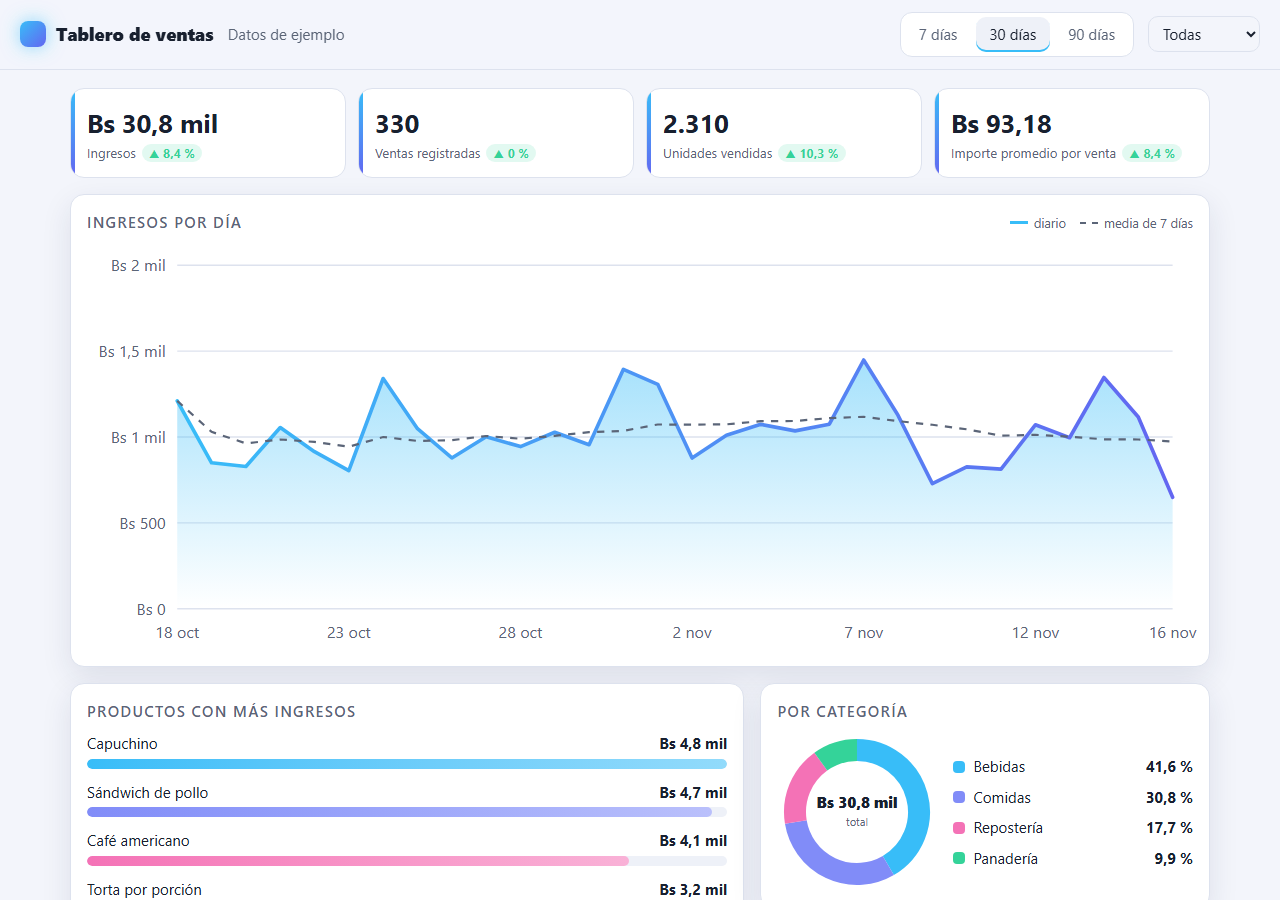
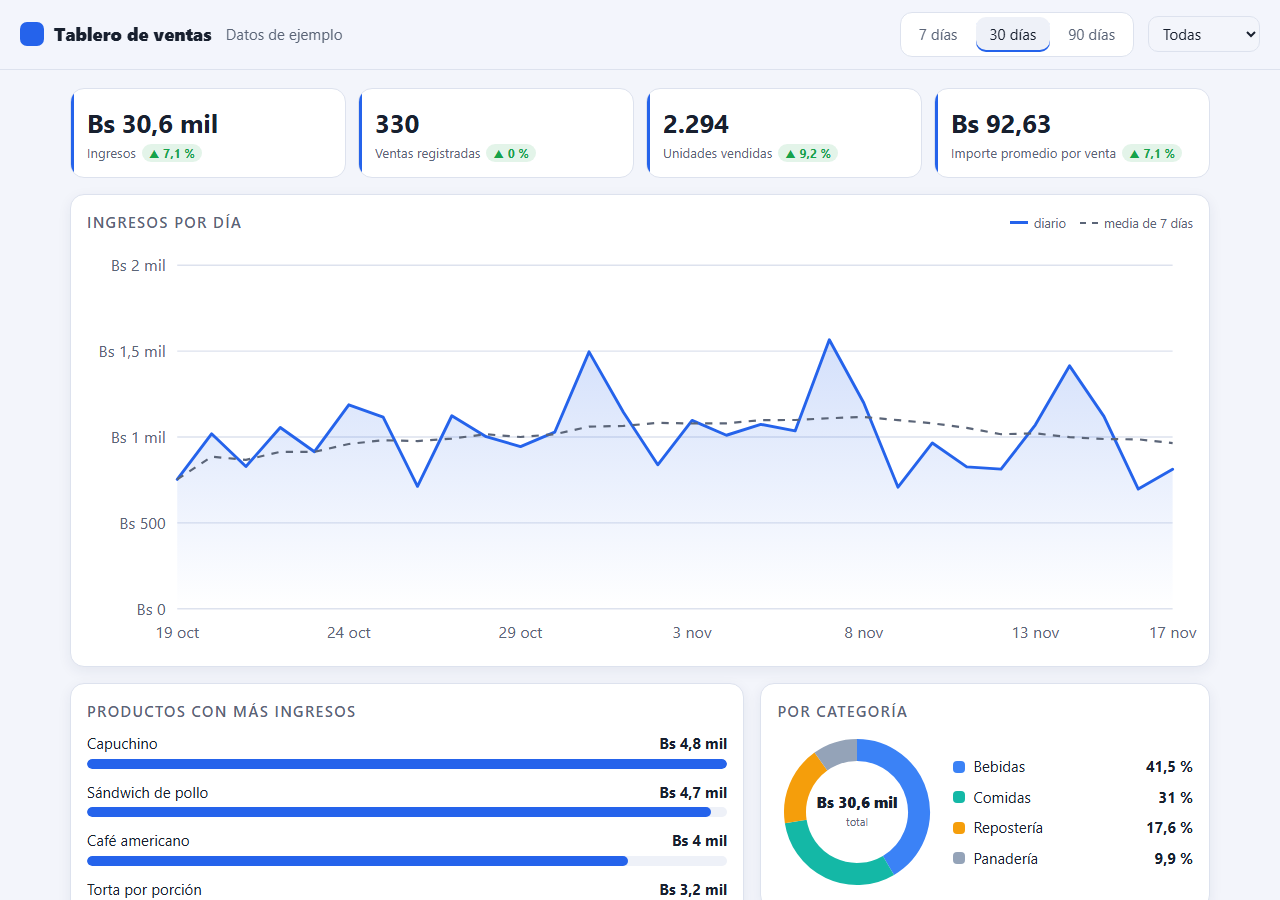
Estilo sobrio: un solo color de acento, sin degradados ni brillos

diff --git a/base.css b/base.css
@@ -6,19 +6,19 @@
   --texto: #e8ecf6;
   --suave: #93a0b8;
   --borde: #26314b;
-  --acento: #38bdf8;
-  --acento-2: #6366f1;
+  --acento: #60a5fa;
+  --acento-2: var(--acento); /* un solo color de acento: sin degradados */
   --sobre-acento: #04101c;
   --peligro: #f87171;
   --aviso: #fbbf24;
   --radio: 14px;
-  --sombra: 0 10px 30px rgba(0, 0, 0, .35);
+  --sombra: 0 4px 14px rgba(0, 0, 0, .25);
   color-scheme: dark;
 }
 @media (prefers-color-scheme: light) {
   :root:not([data-tema='oscuro']) {
     --fondo: #f3f5fb; --panel: #ffffff; --panel-2: #eef1f8; --texto: #18202f; --suave: #5b6578; --borde: #dde2ee;
-    --sombra: 0 10px 30px rgba(30, 40, 80, .10); --sobre-acento: #ffffff; color-scheme: light;
+    --sombra: 0 4px 14px rgba(30, 40, 80, .07); --sobre-acento: #ffffff; --acento: #2563eb; color-scheme: light;
   }
 }
 * { box-sizing: border-box; }
@@ -30,7 +30,8 @@ button { cursor: pointer; border: 1px solid var(--borde); background: var(--pane
 button:hover:not(:disabled) { border-color: var(--acento); transform: translateY(-1px); }
 button:active:not(:disabled) { transform: translateY(1px) scale(.98); }
 button:disabled { opacity: .45; cursor: not-allowed; }
-button.principal { background: linear-gradient(135deg, var(--acento), var(--acento-2)); color: var(--sobre-acento); border-color: transparent; font-weight: 700; box-shadow: 0 6px 18px color-mix(in srgb, var(--acento) 35%, transparent); }
+button.principal { background: var(--acento); color: var(--sobre-acento); border-color: transparent; font-weight: 700; }
+button.principal:hover:not(:disabled) { filter: brightness(1.07); }
 button.fantasma { background: transparent; }
 button.chico { padding: 4px 10px; font-size: .85rem; }
 input, select, textarea { background: var(--fondo); border: 1px solid var(--borde); border-radius: 10px; padding: 8px 10px; min-width: 0; transition: border-color .2s, box-shadow .2s; }
@@ -39,7 +40,7 @@ label { display: flex; flex-direction: column; gap: 4px; font-size: .82rem; colo
 
 .barra-superior { position: sticky; top: 0; z-index: 5; display: flex; align-items: center; gap: 14px; padding: 12px 20px; background: color-mix(in srgb, var(--fondo) 82%, transparent); backdrop-filter: blur(10px); border-bottom: 1px solid var(--borde); }
 .marca { display: flex; align-items: center; gap: 10px; font-weight: 800; font-size: 1.1rem; letter-spacing: .2px; }
-.marca i { width: 26px; height: 26px; border-radius: 8px; background: linear-gradient(135deg, var(--acento), var(--acento-2)); display: inline-block; box-shadow: 0 0 18px color-mix(in srgb, var(--acento) 55%, transparent); }
+.marca i { width: 24px; height: 24px; border-radius: 7px; background: var(--acento); display: inline-block; }
 .espacio { flex: 1; }
 .pestanas { display: flex; gap: 4px; background: var(--panel); border: 1px solid var(--borde); border-radius: 12px; padding: 4px; }
 .pestanas button { border: 0; background: transparent; color: var(--suave); padding: 6px 14px; }
@@ -59,7 +60,7 @@ td.num, th.num { text-align: right; font-variant-numeric: tabular-nums; }
 
 .kpis { display: grid; grid-template-columns: repeat(auto-fit, minmax(170px, 1fr)); gap: 12px; }
 .kpi { background: var(--panel); border: 1px solid var(--borde); border-radius: var(--radio); padding: 14px 16px; position: relative; overflow: hidden; }
-.kpi::before { content: ''; position: absolute; inset: 0 auto 0 0; width: 4px; background: linear-gradient(var(--acento), var(--acento-2)); }
+.kpi::before { content: ''; position: absolute; inset: 0 auto 0 0; width: 3px; background: var(--acento); }
 .kpi b { display: block; font-size: 1.6rem; font-variant-numeric: tabular-nums; }
 .kpi span { color: var(--suave); font-size: .82rem; }
 
@@ -70,8 +71,8 @@ td.num, th.num { text-align: right; font-variant-numeric: tabular-nums; }
 .aviso-flotante.error { border-left-color: var(--peligro); }
 
 @keyframes aparecer { from { opacity: 0; } to { opacity: 1; } }
-@keyframes subir { from { opacity: 0; transform: translateY(14px); } to { opacity: 1; transform: none; } }
-@keyframes pulso { 0% { transform: scale(1); } 40% { transform: scale(1.06); } 100% { transform: scale(1); } }
+@keyframes subir { from { opacity: 0; transform: translateY(8px); } to { opacity: 1; transform: none; } }
+@keyframes pulso { 0% { transform: scale(1); } 40% { transform: scale(1.03); } 100% { transform: scale(1); } }
 .entra { animation: subir .35s cubic-bezier(.2, .8, .2, 1) both; }
 .pulso { animation: pulso .3s ease; }
 @media (prefers-reduced-motion: reduce) { *, *::before, *::after { animation: none !important; transition: none !important; scroll-behavior: auto !important; } }

diff --git a/estilos.css b/estilos.css
@@ -1,16 +1,16 @@
 main { max-width: 1180px; margin: 0 auto; padding: 18px 20px 40px; display: flex; flex-direction: column; gap: 16px; }
 .dos { display: grid; grid-template-columns: 3fr 2fr; gap: 16px; align-items: start; }
 .kpi em { font-style: normal; font-size: .78rem; font-weight: 700; margin-left: 6px; padding: 1px 7px; border-radius: 999px; }
-.kpi em.sube { color: #34d399; background: rgba(52, 211, 153, .14); }
+.kpi em.sube { color: #16a34a; background: rgba(22, 163, 74, .12); }
 .kpi em.baja { color: var(--peligro); background: rgba(248, 113, 113, .14); }
 
 .lienzo { position: relative; margin-top: 8px; }
 .lienzo svg { width: 100%; height: auto; display: block; overflow: visible; }
 .guia { stroke: var(--borde); stroke-width: 1; }
 .eje { fill: var(--suave); font-size: 11px; }
-.trazo { stroke-dasharray: 1; stroke-dashoffset: 1; animation: dibujar 1.4s cubic-bezier(.4, 0, .2, 1) forwards; }
-.area { opacity: 0; animation: aparecer .9s ease .7s forwards; }
-.media { opacity: 0; animation: aparecer .6s ease 1.2s forwards; }
+.trazo { stroke-dasharray: 1; stroke-dashoffset: 1; animation: dibujar .9s cubic-bezier(.4, 0, .2, 1) forwards; }
+.area { opacity: 0; animation: aparecer .5s ease .5s forwards; }
+.media { opacity: 0; animation: aparecer .4s ease .8s forwards; }
 .cursor { stroke: var(--suave); stroke-dasharray: 3 4; }
 .punto { fill: var(--fondo); stroke: var(--acento); stroke-width: 3; }
 @keyframes dibujar { to { stroke-dashoffset: 0; } }
@@ -24,7 +24,7 @@ main { max-width: 1180px; margin: 0 auto; padding: 18px 20px 40px; display: flex
 .barra { display: grid; grid-template-columns: 1fr auto; gap: 4px 10px; margin-bottom: 12px; animation: subir .4s cubic-bezier(.2, .8, .2, 1) both; }
 .barra b { font-variant-numeric: tabular-nums; }
 .barra i { grid-column: 1 / -1; height: 10px; border-radius: 99px; background: var(--panel-2); overflow: hidden; display: block; }
-.barra i::after { content: ''; display: block; height: 100%; width: var(--p); border-radius: 99px; background: linear-gradient(90deg, var(--c), color-mix(in srgb, var(--c) 55%, #fff)); transform-origin: left; animation: crecer .9s cubic-bezier(.2, .8, .2, 1) both; animation-delay: inherit; }
+.barra i::after { content: ''; display: block; height: 100%; width: var(--p); border-radius: 99px; background: var(--acento); transform-origin: left; animation: crecer .9s cubic-bezier(.2, .8, .2, 1) both; animation-delay: inherit; }
 @keyframes crecer { from { transform: scaleX(0); } to { transform: scaleX(1); } }
 
 .dona { display: grid; grid-template-columns: 160px 1fr; gap: 16px; align-items: center; }
@@ -35,7 +35,7 @@ main { max-width: 1180px; margin: 0 auto; padding: 18px 20px 40px; display: flex
 .leyenda li { display: grid; grid-template-columns: 12px 1fr auto; gap: 8px; align-items: center; }
 .leyenda i { width: 12px; height: 12px; border-radius: 4px; }
 
-.boton-archivo { flex-direction: row; cursor: pointer; background: linear-gradient(135deg, var(--acento), var(--acento-2)); color: var(--sobre-acento); font-weight: 700; font-size: 1rem; padding: 8px 14px; border-radius: 10px; transition: transform .12s; }
+.boton-archivo { flex-direction: row; cursor: pointer; background: var(--acento); color: var(--sobre-acento); font-weight: 700; font-size: 1rem; padding: 8px 14px; border-radius: 10px; transition: transform .12s; }
 .boton-archivo:hover { transform: translateY(-1px); }
 .errores { margin: 10px 0 0; padding-left: 18px; color: var(--aviso); font-size: .88rem; }
 .errores:empty { display: none; }

diff --git a/src/graficos.js b/src/graficos.js
@@ -4,7 +4,8 @@ import { arcoDona, deFecha, escala, formato, rutaLinea, topeRedondo } from './lo
 const esc = (s) => String(s ?? '').replace(/[&<>"']/g, (c) => ({ '&': '&amp;', '<': '&lt;', '>': '&gt;', '"': '&quot;', "'": '&#39;' })[c])
 const MESES = ['ene', 'feb', 'mar', 'abr', 'may', 'jun', 'jul', 'ago', 'sep', 'oct', 'nov', 'dic']
 const corta = (f) => `${deFecha(f).getDate()} ${MESES[deFecha(f).getMonth()]}`
-export const COLORES = ['#38bdf8', '#818cf8', '#f472b6', '#34d399', '#fbbf24', '#fb7185']
+// Paleta contenida para las categorías: azul, verde azulado, ámbar y grises.
+export const COLORES = ['#3b82f6', '#14b8a6', '#f59e0b', '#94a3b8', '#8b5cf6', '#64748b']
 
 /** Línea de ingresos por día con su media móvil. Devuelve el SVG y los puntos (para el indicador al pasar el cursor). */
 export function graficoLinea(serie, suavizada, ancho = 760, alto = 280) {
@@ -22,11 +23,11 @@ export function graficoLinea(serie, suavizada, ancho = 760, alto = 280) {
   const cada = Math.max(1, Math.ceil(serie.length / 7))
   const fechas = serie.map((p, i) => (i % cada === 0 || i === serie.length - 1 ? `<text x="${x(i)}" y="${alto - 8}" class="eje" text-anchor="middle">${corta(p.fecha)}</text>` : '')).join('')
   const svg = `<svg viewBox="0 0 ${ancho} ${alto}" role="img" aria-label="Ingresos por día">
-    <defs><linearGradient id="relleno" x1="0" y1="0" x2="0" y2="1"><stop offset="0" stop-color="var(--acento)" stop-opacity=".45"/><stop offset="1" stop-color="var(--acento)" stop-opacity="0"/></linearGradient>
+    <defs><linearGradient id="relleno" x1="0" y1="0" x2="0" y2="1"><stop offset="0" stop-color="var(--acento)" stop-opacity=".2"/><stop offset="1" stop-color="var(--acento)" stop-opacity="0"/></linearGradient>
     <linearGradient id="trazo" x1="0" y1="0" x2="1" y2="0"><stop offset="0" stop-color="var(--acento)"/><stop offset="1" stop-color="var(--acento-2)"/></linearGradient></defs>
     ${guias}${fechas}
     <path d="${area}" fill="url(#relleno)" class="area"/>
-    <path d="${linea}" fill="none" stroke="url(#trazo)" stroke-width="2.5" stroke-linejoin="round" stroke-linecap="round" pathLength="1" class="trazo"/>
+    <path d="${linea}" fill="none" stroke="var(--acento)" stroke-width="2" stroke-linejoin="round" stroke-linecap="round" pathLength="1" class="trazo"/>
     <path d="${media}" fill="none" stroke="var(--suave)" stroke-width="1.5" stroke-dasharray="5 5" class="media"/>
     <line id="cursor-linea" y1="${m.arriba}" y2="${alto - m.abajo}" class="cursor" visibility="hidden"/>
     <circle id="cursor-punto" r="5" class="punto" visibility="hidden"/>
